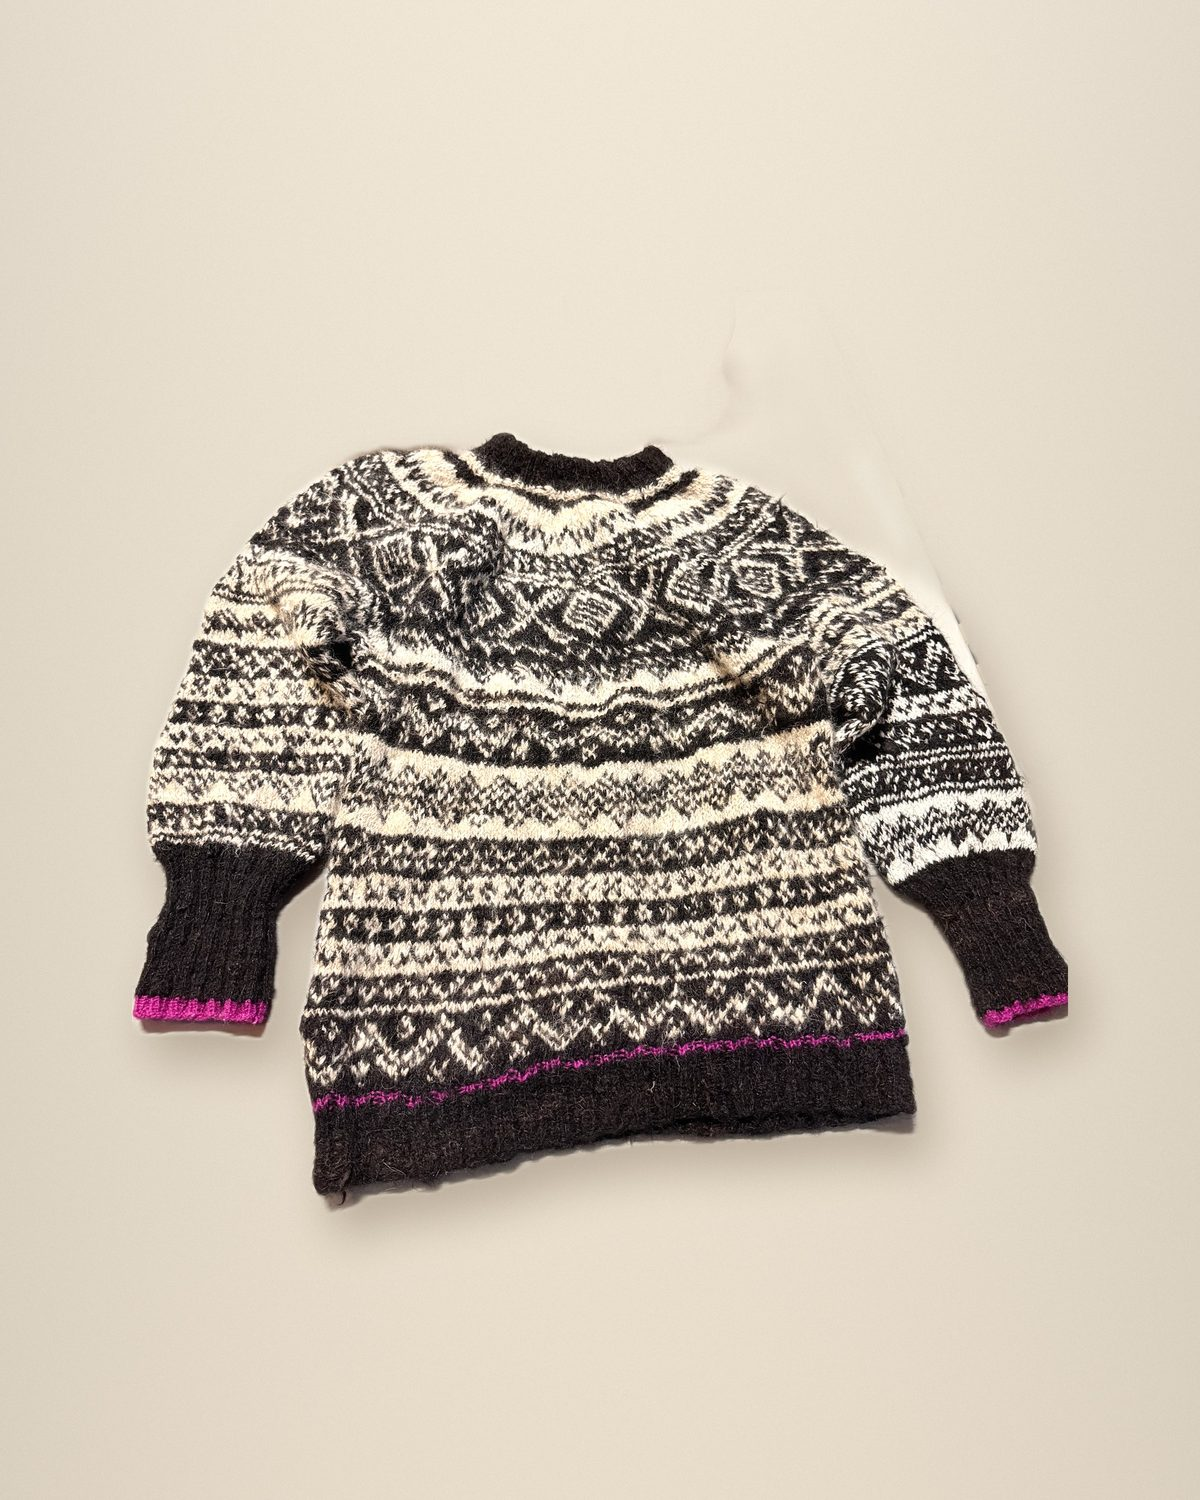
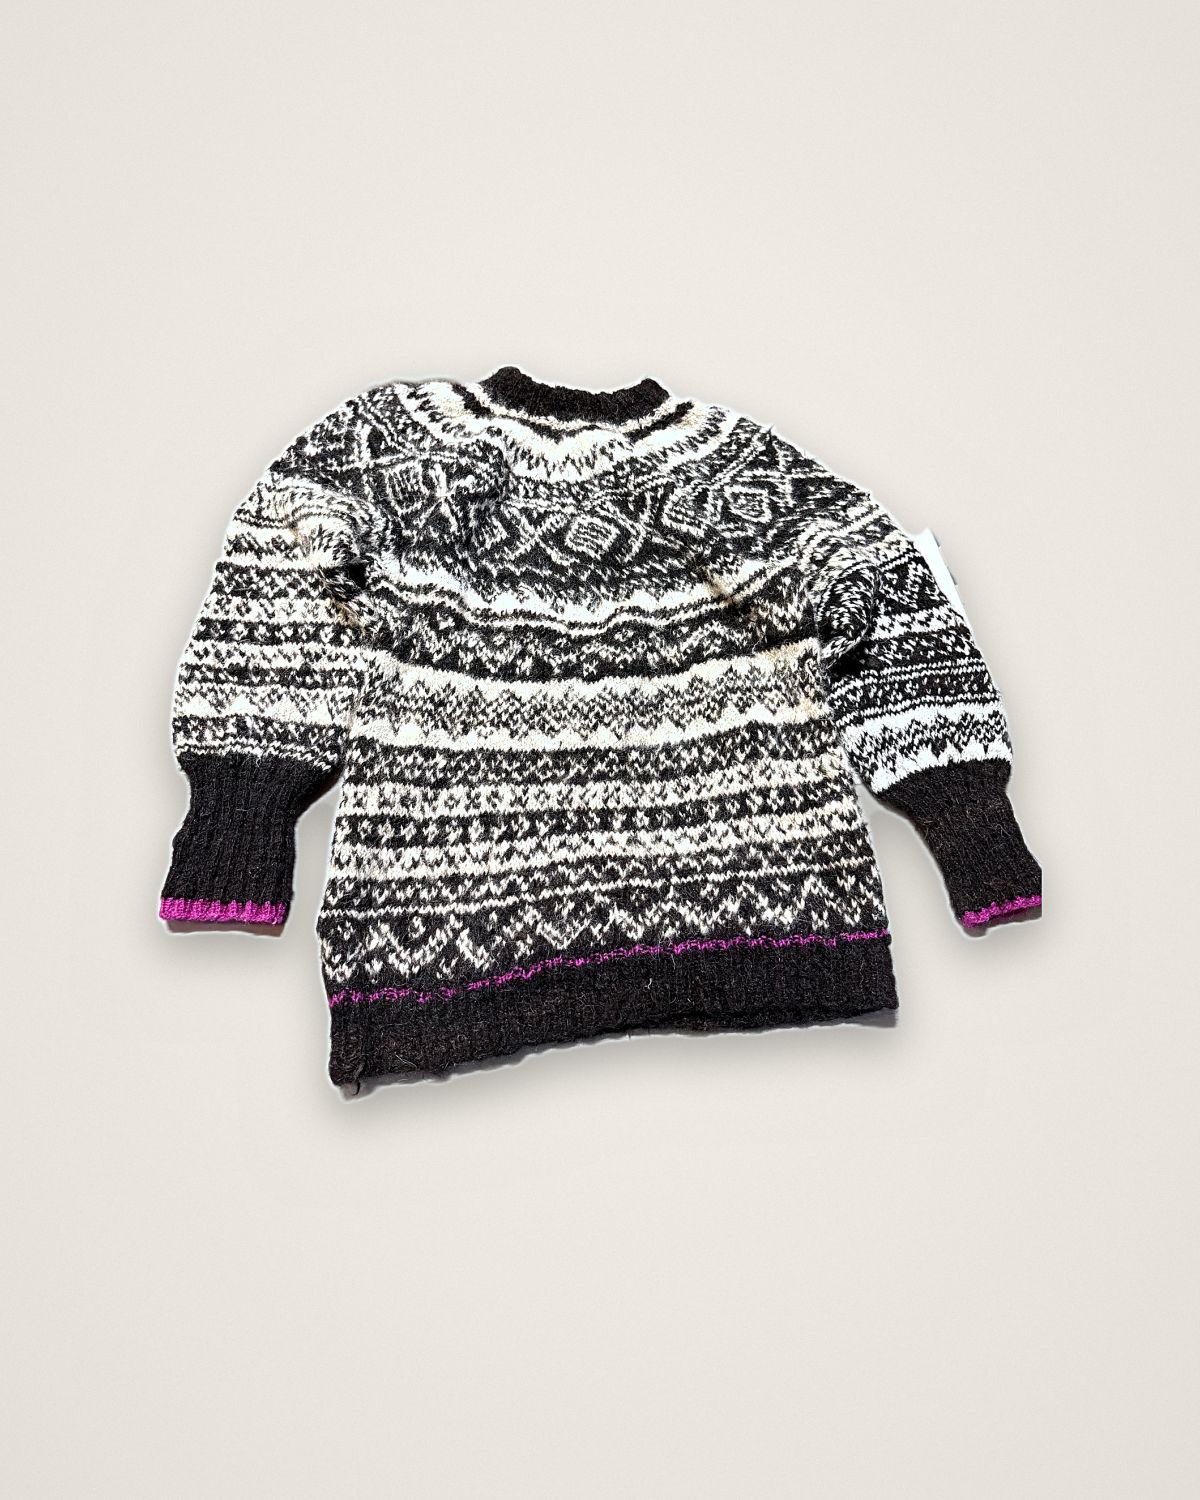
Produktbilder: studio-pass v2 på Dyra, lin-bilder på Skredderen
- scripts/studio-pass.py: cutout fra de ekte studiobildene (kroma+tekstur-maske),
  hvitbalanse, kontrast/klarhet, varm papirbakgrunn med kontaktskygge, sentrert
  4:5 (1200x1500) og kvadrat. Produktet er ikke endret, bare frilagt og gradert.
- Skredderen: logo-plassholderne erstattet med lin-fotografier (skjorte på
  gjerdet, kimono/drapering, stoffdetalj) i public/launch/skredderen + migrasjon.
- object-contain-unntaket for skreddersøm fjernet (bildene er nå foto).

Claude-Session: https://claude.ai/code/session_01SpueyKJAV1C4GdRnZTuKQi

diff --git a/scripts/studio-pass.py b/scripts/studio-pass.py
@@ -1,0 +1,142 @@
+#!/usr/bin/env python3
+"""Studio pass v2 for product cutouts.
+
+Takes the 2000x2500 studio photos in content/launch/product-studio, isolates the
+object from the flat beige background, polishes the photo (white balance,
+contrast, clarity, dust), and re-composes it centred on a soft paper gradient
+with a natural contact shadow. Outputs 4:5 (1200x1500) and square (900x900)
+web images into public/launch/products.
+
+The product itself is never altered – only cut out, graded and re-lit.
+"""
+import sys, os
+import numpy as np
+import cv2
+from PIL import Image, ImageFilter
+
+SRC = "content/launch/product-studio"
+OUT = "public/launch/products"
+IDS = sys.argv[1:] or ["5475", "5476", "5479", "5477", "5465", "5469"]
+
+PAPER_CENTER = np.array([246, 243, 237], dtype=np.float32)  # warm paper
+PAPER_EDGE = np.array([228, 223, 214], dtype=np.float32)
+
+
+def object_mask(img_bgr):
+    """Mask of the object. The backdrop is a smooth beige gradient, so the
+    object is found by chroma difference and local texture – not by lightness,
+    which varies across the backdrop."""
+    h, w = img_bgr.shape[:2]
+    lab = cv2.cvtColor(img_bgr, cv2.COLOR_BGR2LAB).astype(np.float32)
+    band = np.concatenate([lab[:60].reshape(-1, 3), lab[-60:].reshape(-1, 3), lab[:, :60].reshape(-1, 3), lab[:, -60:].reshape(-1, 3)])
+    bg = np.median(band, axis=0)
+    chroma = np.sqrt((lab[:, :, 1] - bg[1]) ** 2 + (lab[:, :, 2] - bg[2]) ** 2)
+    L = lab[:, :, 0]
+    mean = cv2.blur(L, (9, 9))
+    sq = cv2.blur(L * L, (9, 9))
+    texture = np.sqrt(np.maximum(sq - mean * mean, 0))
+    dark = L < bg[0] - 55          # clearly darker than the backdrop (shadow is only ~15-25 darker)
+    mask = ((chroma > 7) | (texture > 7) | dark).astype(np.uint8)
+    # near-white = cropped frame edge, never object
+    hsv = cv2.cvtColor(img_bgr, cv2.COLOR_BGR2HSV)
+    mask[(hsv[:, :, 2] > 240) & (hsv[:, :, 1] < 18)] = 0
+    k = cv2.getStructuringElement(cv2.MORPH_ELLIPSE, (11, 11))
+    mask = cv2.morphologyEx(mask, cv2.MORPH_CLOSE, k, iterations=3)
+    mask = cv2.morphologyEx(mask, cv2.MORPH_OPEN, cv2.getStructuringElement(cv2.MORPH_ELLIPSE, (7, 7)), iterations=2)
+    n, labels, stats, _ = cv2.connectedComponentsWithStats(mask, 8)
+    if n > 1:
+        areas = stats[1:, cv2.CC_STAT_AREA]
+        keep = [i + 1 for i, a in enumerate(areas) if a > areas.max() * 0.03]
+        mask = np.isin(labels, keep).astype(np.uint8)
+    # fill only small enclosed holes (knit gaps), keep large ones open
+    inv = (1 - mask).astype(np.uint8)
+    n2, lab2, st2, _ = cv2.connectedComponentsWithStats(inv, 4)
+    obj_area = mask.sum()
+    for i in range(1, n2):
+        x, y, ww, hh, area = st2[i]
+        touches = x == 0 or y == 0 or x + ww == w or y + hh == h
+        if not touches and area < obj_area * 0.02:
+            mask[lab2 == i] = 1
+    return mask
+
+
+def grade(img_bgr, mask):
+    """White balance on the backdrop, gentle contrast + clarity, dust removal."""
+    img = img_bgr.astype(np.float32)
+    bg_pix = img[mask == 0]
+    if len(bg_pix) > 1000:
+        bg_mean = bg_pix.mean(axis=0)
+        target = bg_mean.mean()
+        gain = target / np.maximum(bg_mean, 1)
+        gain = np.clip(gain, 0.9, 1.1)
+        img = img * gain
+    # S-curve contrast in LAB L
+    lab = cv2.cvtColor(np.clip(img, 0, 255).astype(np.uint8), cv2.COLOR_BGR2LAB).astype(np.float32)
+    L = lab[:, :, 0] / 255.0
+    L = np.clip((L - 0.5) * 1.12 + 0.5 + 0.03, 0, 1)
+    lab[:, :, 0] = L * 255
+    img = cv2.cvtColor(lab.astype(np.uint8), cv2.COLOR_LAB2BGR)
+    # clarity: unsharp mask with large radius, modest amount
+    blur = cv2.GaussianBlur(img, (0, 0), 6)
+    img = cv2.addWeighted(img, 1.25, blur, -0.25, 0)
+    # fine sharpen
+    blur2 = cv2.GaussianBlur(img, (0, 0), 1.2)
+    img = cv2.addWeighted(img, 1.35, blur2, -0.35, 0)
+    return np.clip(img, 0, 255).astype(np.uint8)
+
+
+def paper(w, h):
+    yy, xx = np.mgrid[0:h, 0:w].astype(np.float32)
+    cx, cy = w / 2, h * 0.45
+    r = np.sqrt(((xx - cx) / (w * 0.75)) ** 2 + ((yy - cy) / (h * 0.75)) ** 2)
+    t = np.clip(r, 0, 1)[..., None]
+    rgb = PAPER_CENTER * (1 - t) + PAPER_EDGE * t
+    # subtle paper grain
+    rng = np.random.default_rng(7)
+    grain = rng.normal(0, 1.6, (h, w, 1))
+    return np.clip(rgb + grain, 0, 255).astype(np.uint8)
+
+
+def compose(img_rgb, alpha, out_w, out_h, fill=0.74):
+    ys, xs = np.where(alpha > 0.5)
+    y0, y1, x0, x1 = ys.min(), ys.max(), xs.min(), xs.max()
+    obj = img_rgb[y0:y1 + 1, x0:x1 + 1]
+    a = alpha[y0:y1 + 1, x0:x1 + 1]
+    oh, ow = obj.shape[:2]
+    scale = min(out_w * fill / ow, out_h * fill / oh)
+    nw, nh = int(ow * scale), int(oh * scale)
+    obj = cv2.resize(obj, (nw, nh), interpolation=cv2.INTER_AREA)
+    a = cv2.resize(a, (nw, nh), interpolation=cv2.INTER_AREA)
+    canvas = paper(out_w, out_h).astype(np.float32)
+    ox, oy = (out_w - nw) // 2, int((out_h - nh) * 0.48)
+    # contact shadow: blurred, offset alpha, multiplied in
+    sh = np.zeros((out_h, out_w), np.float32)
+    sh[oy:oy + nh, ox:ox + nw] = a
+    sh = cv2.GaussianBlur(sh, (0, 0), out_w * 0.018)
+    sh = np.roll(sh, int(out_h * 0.012), axis=0)
+    canvas *= (1 - 0.28 * sh)[..., None]
+    # object
+    region = canvas[oy:oy + nh, ox:ox + nw]
+    region[:] = obj * a[..., None] + region * (1 - a[..., None])
+    return np.clip(canvas, 0, 255).astype(np.uint8)
+
+
+def process(pid):
+    src = os.path.join(SRC, f"IMG_{pid}_studio_2000x2500.jpg")
+    bgr = cv2.imread(src)
+    mask = object_mask(bgr)
+    graded = grade(bgr, mask)
+    alpha = cv2.GaussianBlur(mask.astype(np.float32), (0, 0), 2.0)
+    rgb = cv2.cvtColor(graded, cv2.COLOR_BGR2RGB)
+    out45 = compose(rgb, alpha, 1200, 1500)
+    outsq = compose(rgb, alpha, 900, 900, fill=0.78)
+    Image.fromarray(out45).save(os.path.join(OUT, f"dyra-{pid}-4x5.jpg"), quality=80, optimize=True, progressive=True)
+    Image.fromarray(outsq).save(os.path.join(OUT, f"dyra-{pid}-sq.jpg"), quality=80, optimize=True, progressive=True)
+    cov = mask.mean()
+    print(f"{pid}: mask coverage {cov:.2%}")
+
+
+if __name__ == "__main__":
+    os.makedirs(OUT, exist_ok=True)
+    for pid in IDS:
+        process(pid)
